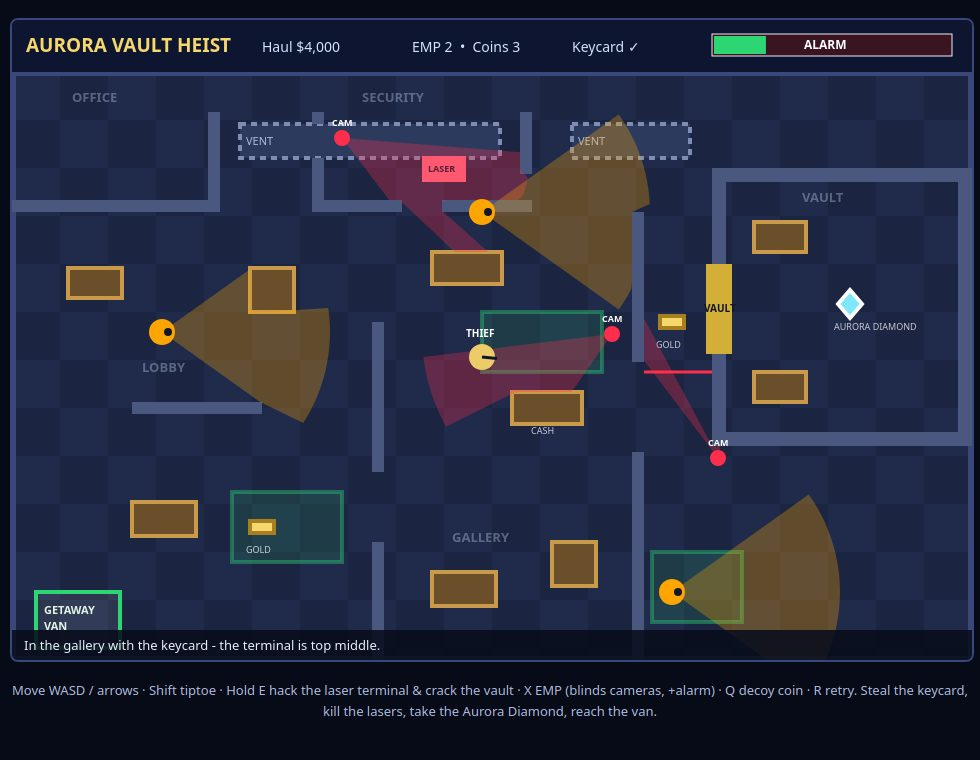
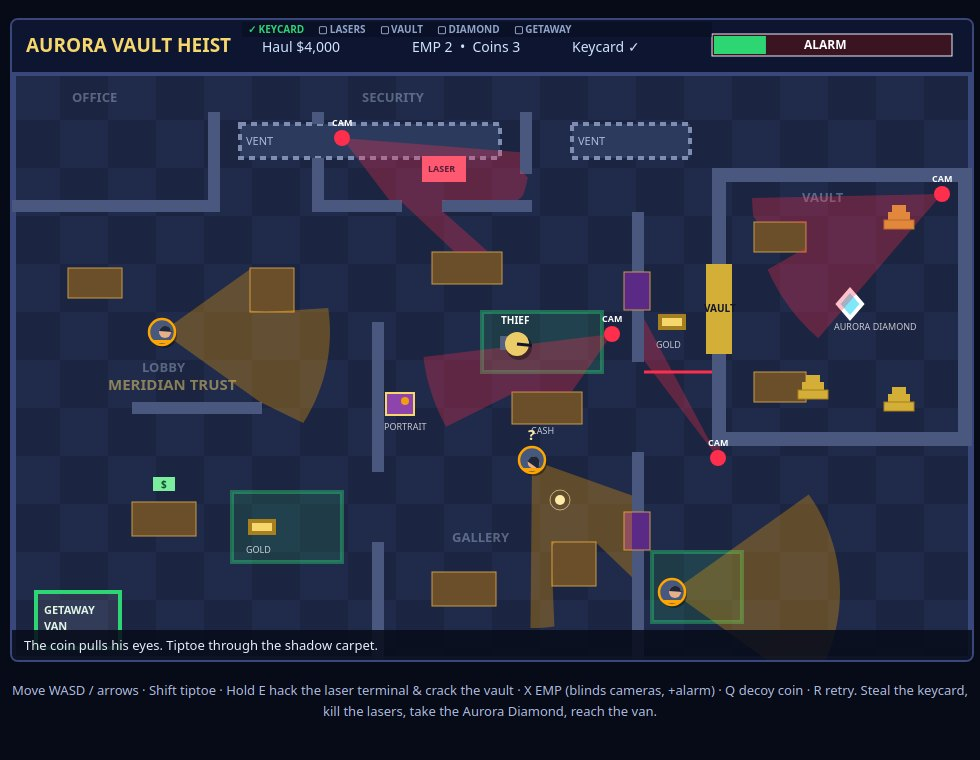
v2: lockdown watch, vault camera, portrait and register loot, objective checklist, richer rendering

diff --git a/game/src/render.js b/game/src/render.js
@@ -49,6 +49,35 @@ function drawHud(ctx, world) {
   ctx.fillStyle = '#ffffff';
   ctx.font = 'bold 12px system-ui, sans-serif';
   ctx.fillText('ALARM', 792, 29);
+  if (world.lockdown) {
+    ctx.fillStyle = '#ff4757';
+    ctx.font = 'bold 11px system-ui, sans-serif';
+    ctx.fillText('LOCKDOWN WATCH', 700, 45);
+  }
+  drawObjectives(ctx, world);
+}
+
+// The job in five steps, always on screen: a first-time viewer can
+// read the whole heist plan off a single screenshot.
+function drawObjectives(ctx, world) {
+  const steps = [
+    ['KEYCARD', world.hasKeycard],
+    ['LASERS', world.lasersOff],
+    ['VAULT', world.vaultOpen],
+    ['DIAMOND', world.hasDiamond],
+    ['GETAWAY', world.state === 'clear'],
+  ];
+  ctx.fillStyle = 'rgba(9,13,28,0.55)';
+  ctx.fillRect(230, 2, 470, 15);
+  ctx.font = 'bold 10px system-ui, sans-serif';
+  let x = 236;
+  steps.forEach(([label, done], i) => {
+    ctx.fillStyle = done ? '#2ed573' : '#8fa3c8';
+    const text = `${done ? '✓' : '▢'} ${label}`;
+    ctx.fillText(text, x, 13);
+    x += ctx.measureText(text).width + 14;
+    void i;
+  });
 }
 
 function drawFloor(ctx, world) {
@@ -129,6 +158,25 @@ function drawFixtures(ctx, world) {
   ctx.fillStyle = '#10162e';
   ctx.font = 'bold 10px system-ui, sans-serif';
   ctx.fillText(world.vaultOpen ? 'OPEN' : 'VAULT', VAULT_DOOR.x - 2, VAULT_DOOR.y + 48);
+  // Set dressing: framed art on the gallery wall, gold piles waiting
+  // inside the vault, and the bank's name over the lobby counter.
+  ctx.fillStyle = '#5b2a86';
+  ctx.fillRect(612, 200, 26, 38);
+  ctx.fillRect(612, 440, 26, 38);
+  ctx.strokeStyle = '#c99a4a';
+  ctx.strokeRect(612, 200, 26, 38);
+  ctx.strokeRect(612, 440, 26, 38);
+  for (const [gx, gy] of [[786, 318], [872, 148], [872, 330]]) {
+    ctx.fillStyle = '#d4af37';
+    ctx.fillRect(gx, gy, 30, 9);
+    ctx.fillRect(gx + 4, gy - 8, 22, 8);
+    ctx.fillRect(gx + 8, gy - 15, 14, 7);
+    ctx.strokeStyle = '#a87f1f';
+    ctx.strokeRect(gx, gy, 30, 9);
+  }
+  ctx.fillStyle = 'rgba(245,215,110,0.5)';
+  ctx.font = 'bold 15px system-ui, sans-serif';
+  ctx.fillText('MERIDIAN TRUST', 96, 318);
   // Laser beam across the vault corridor.
   if (!world.lasersOff) {
     ctx.strokeStyle = '#ff2e4d';
@@ -158,6 +206,15 @@ function drawLoot(ctx, world) {
     } else if (item.kind === 'keycard') {
       ctx.fillStyle = '#ffdd59';
       ctx.fillRect(item.x - 11, item.y - 7, 22, 14);
+    } else if (item.kind === 'painting') {
+      ctx.fillStyle = '#8e44ad';
+      ctx.fillRect(item.x - 14, item.y - 11, 28, 22);
+      ctx.strokeStyle = '#f5d76e';
+      ctx.lineWidth = 2;
+      ctx.strokeRect(item.x - 14, item.y - 11, 28, 22);
+      ctx.lineWidth = 1;
+      ctx.fillStyle = '#f39c12';
+      ctx.beginPath(); ctx.arc(item.x + 5, item.y - 3, 4, 0, Math.PI * 2); ctx.fill();
     } else if (item.kind === 'gold') {
       ctx.fillStyle = '#f5d76e';
       ctx.fillRect(item.x - 12, item.y - 6, 24, 12);
@@ -201,6 +258,10 @@ function drawActors(ctx, world) {
   for (const d of world.decoys) {
     ctx.fillStyle = '#ffeaa7';
     ctx.beginPath(); ctx.arc(d.x, d.y, 5, 0, Math.PI * 2); ctx.fill();
+    // Sound rings off the coin: you can see what the guards hear.
+    ctx.strokeStyle = 'rgba(255,234,167,0.6)';
+    const ring = 10 + (world.time * 14) % 16;
+    ctx.beginPath(); ctx.arc(d.x, d.y, ring, 0, Math.PI * 2); ctx.stroke();
   }
   for (const c of world.cameras) {
     ctx.fillStyle = c.disabledLeft > 0 ? '#57607e' : '#ff2e4d';
@@ -210,21 +271,47 @@ function drawActors(ctx, world) {
     ctx.fillText('CAM', c.x - 10, c.y - 12);
   }
   for (const g of world.guards) {
-    ctx.fillStyle = g.state === 'chase' ? '#ff4757' : '#ffa502';
+    // Navy uniform, amber vest stripe, cap brim toward his facing:
+    // a guard reads as a guard at a glance, not a token.
+    ctx.fillStyle = 'rgba(0,0,0,0.35)';
+    ctx.beginPath(); ctx.arc(g.x + 2, g.y + 3, 13, 0, Math.PI * 2); ctx.fill();
+    ctx.fillStyle = '#46587e';
     ctx.beginPath(); ctx.arc(g.x, g.y, 13, 0, Math.PI * 2); ctx.fill();
-    ctx.fillStyle = '#10162e';
+    ctx.strokeStyle = g.state === 'chase' ? '#ff4757' : '#ffa502';
+    ctx.lineWidth = 2.5;
+    ctx.stroke();
+    ctx.lineWidth = 1;
+    // Head with a navy cap, turned toward his facing.
+    const hx = g.x + Math.cos(g.facing) * 3;
+    const hy = g.y + Math.sin(g.facing) * 3;
+    ctx.fillStyle = '#e8b08a';
+    ctx.beginPath(); ctx.arc(hx, hy, 6, 0, Math.PI * 2); ctx.fill();
+    ctx.fillStyle = '#1d2739';
     ctx.beginPath();
-    ctx.arc(g.x + Math.cos(g.facing) * 6, g.y + Math.sin(g.facing) * 6, 4, 0, Math.PI * 2);
-    ctx.fill();
+    ctx.arc(hx, hy, 6, Math.PI * 1.05, Math.PI * 1.95);
+    ctx.lineTo(hx + Math.cos(g.facing) * 8, hy + Math.sin(g.facing) * 8);
+    ctx.closePath(); ctx.fill();
+    ctx.fillStyle = '#ffa502';
+    ctx.fillRect(g.x - 9, g.y + 8, 18, 3);
     if (g.state === 'chase' || g.state === 'search') {
       ctx.fillStyle = '#ff4757';
       ctx.font = 'bold 16px system-ui, sans-serif';
       ctx.fillText('!', g.x - 3, g.y - 20);
+    } else if (g.state === 'investigate' || g.state === 'look') {
+      ctx.fillStyle = '#ffeaa7';
+      ctx.font = 'bold 15px system-ui, sans-serif';
+      ctx.fillText('?', g.x - 4, g.y - 20);
     }
   }
   const p = world.player;
+  ctx.fillStyle = 'rgba(0,0,0,0.35)';
+  ctx.beginPath(); ctx.arc(p.x + 2, p.y + 3, 13, 0, Math.PI * 2); ctx.fill();
+  // The loot bag on his back: grey when empty, gold once the
+  // diamond is in it - the screenshot tells you how the job is going.
+  ctx.fillStyle = world.hasDiamond ? '#f5d76e' : '#57607e';
+  ctx.fillRect(p.x - Math.cos(p.facing) * 10 - 7, p.y - Math.sin(p.facing) * 10 - 7, 14, 14);
   ctx.fillStyle = p.inVent ? '#48dbfb' : '#eccc68';
-  ctx.beginPath(); ctx.arc(p.x, p.y, 13, 0, Math.PI * 2); ctx.fill();
+  ctx.beginPath(); ctx.arc(p.x, p.y, 12, 0, Math.PI * 2); ctx.fill();
   ctx.strokeStyle = '#10162e';
   ctx.lineWidth = 3;
   ctx.beginPath();
@@ -243,6 +330,14 @@ function drawActors(ctx, world) {
 }
 
 function drawOverlays(ctx, world) {
+  // Danger vignette: the frame itself closes in when the job is hot.
+  if (world.state === 'playing' && (world.seenNow || world.lockdown)) {
+    const pulse = 0.35 + 0.2 * Math.sin(world.time * 6);
+    ctx.strokeStyle = `rgba(255,46,77,${world.seenNow ? pulse : 0.3})`;
+    ctx.lineWidth = 10;
+    ctx.strokeRect(5, 5, VIEW_W - 10, VIEW_H - HUD_H - 10);
+    ctx.lineWidth = 1;
+  }
   ctx.fillStyle = 'rgba(9,13,28,0.88)';
   ctx.fillRect(0, VIEW_H - HUD_H - 30, VIEW_W, 30);
   ctx.fillStyle = '#e8ecf8';

diff --git a/game/src/guards.js b/game/src/guards.js
@@ -45,6 +45,9 @@ function moveToward(g, tx, ty, speed, dt, blockers) {
 
 export function updateGuard(g, dt, world) {
   const blockers = world.blockers;
+  // Lockdown: once the alarm passes the halfway mark the whole patrol
+  // shifts up a gear. The meter warned you the whole way up.
+  const boost = world.lockdown ? 1.22 : 1;
   if (world.seenByGuard === g && world.playerVisibleTo(g)) {
     g.state = 'chase';
     g.targetX = world.player.x;
@@ -52,7 +55,7 @@ export function updateGuard(g, dt, world) {
     g.searchLeft = 3.2;
   }
   if (g.state === 'chase') {
-    if (moveToward(g, g.targetX, g.targetY, GUARD_CHASE * g.speedScale, dt, blockers)) {
+    if (moveToward(g, g.targetX, g.targetY, GUARD_CHASE * g.speedScale * boost, dt, blockers)) {
       g.state = 'search';
     }
     if (!world.playerVisibleTo(g)) {
@@ -64,14 +67,14 @@ export function updateGuard(g, dt, world) {
   if (g.state === 'search') {
     g.searchLeft -= dt;
     g.facing += Math.sin(world.time * 1.7 + g.phase) * dt * 1.9;
-    if (moveToward(g, g.targetX, g.targetY, GUARD_SEARCH * g.speedScale, dt, blockers) && g.searchLeft <= 0) {
+    if (moveToward(g, g.targetX, g.targetY, GUARD_SEARCH * g.speedScale * boost, dt, blockers) && g.searchLeft <= 0) {
       g.state = 'patrol';
     }
     if (g.searchLeft < -2.5) g.state = 'patrol';
     return;
   }
   if (g.state === 'investigate') {
-    if (moveToward(g, g.targetX, g.targetY, GUARD_SEARCH * g.speedScale, dt, blockers)) {
+    if (moveToward(g, g.targetX, g.targetY, GUARD_SEARCH * g.speedScale * boost, dt, blockers)) {
       g.pauseLeft = 1.4;
       g.state = 'look';
     }
@@ -90,7 +93,7 @@ export function updateGuard(g, dt, world) {
     return;
   }
   const [tx, ty] = g.waypoints[g.wpIndex];
-  if (moveToward(g, tx, ty, GUARD_PATROL * g.speedScale, dt, blockers)) {
+  if (moveToward(g, tx, ty, GUARD_PATROL * g.speedScale * boost, dt, blockers)) {
     g.wpIndex = (g.wpIndex + 1) % g.waypoints.length;
     g.pauseLeft = 0.9;
   }

diff --git a/game/src/shots.js b/game/src/shots.js
@@ -14,13 +14,22 @@ export function shotWorld(name) {
     return world;
   }
   if (name === 'play') {
-    world.player.x = 470; world.player.y = 285; world.player.facing = 0.1;
+    // Mid-job in the gallery shadow carpet: a decoy coin rings on the
+    // tiles and the gallery guard turns to it ('?' overhead) while the
+    // thief slips past his cone with the keycard already lifted.
+    world.player.x = 505; world.player.y = 272; world.player.facing = 0.1;
+    world.player.tiptoe = true; world.player.inShadow = true;
     world.hasKeycard = true;
     world.loot.find((l) => l.id === 'keycard').taken = true;
     world.loot.find((l) => l.id === 'cash1').taken = true;
     world.haul = 4000;
     world.alarm = 22;
-    world.message = 'In the gallery with the keycard - the terminal is top middle.';
+    world.decoys.push({ x: 548, y: 428, left: 4 });
+    world.guards[1].state = 'investigate';
+    world.guards[1].x = 520; world.guards[1].y = 388;
+    world.guards[1].facing = Math.atan2(428 - 388, 548 - 520);
+    world.guards[1].targetX = 548; world.guards[1].targetY = 428;
+    world.message = 'The coin pulls his eyes. Tiptoe through the shadow carpet.';
     return world;
   }
   if (name === 'alarm') {
@@ -28,6 +37,7 @@ export function shotWorld(name) {
     world.hasKeycard = true; world.lasersOff = false;
     world.loot.find((l) => l.id === 'keycard').taken = true;
     world.alarm = 78;
+    world.lockdown = true;
     world.seenNow = true;
     world.guards[2].state = 'chase';
     world.guards[2].x = 700; world.guards[2].y = 360;
@@ -39,7 +49,7 @@ export function shotWorld(name) {
   world.hasKeycard = true; world.lasersOff = true; world.vaultOpen = true;
   world.hasDiamond = true;
   for (const l of world.loot) l.taken = true;
-  world.haul = 91000;
+  world.haul = 108000;
   world.alarm = 12;
   world.state = 'clear';
   world.endReason = 'Clean getaway. Ghost bonus $15,000.';

diff --git a/game/src/levels.js b/game/src/levels.js
@@ -69,6 +69,7 @@ export function buildActors(nightIndex) {
     { x: 330, y: 66, base: 0.5, sweep: 0.9, phase: 0 },
     { x: 600, y: 262, base: 2.6, sweep: 1.1, phase: 2.1 },
     { x: 706, y: 386, base: -1.8, sweep: 0.8, phase: 4.2 },
+    { x: 930, y: 122, base: 2.7, sweep: 0.6, phase: 1.3 },
   ];
   return { guards, cameras };
 }
@@ -82,6 +83,8 @@ export function buildLoot(nightIndex) {
     { id: 'gold2', kind: 'gold', x: 250, y: 455, value: 9000, label: 'GOLD' },
     { id: 'diamond', kind: 'diamond', x: 838, y: 232, value: 50000, label: 'AURORA DIAMOND' },
   ];
+  loot.push({ id: 'painting', kind: 'painting', x: 388, y: 332, value: 12000, label: 'PORTRAIT' });
+  loot.push({ id: 'register', kind: 'cash', x: 152, y: 412, value: 5000, label: 'REGISTER' });
   if (nightIndex >= 1) {
     loot.push({ id: 'cash3', kind: 'cash', x: 690, y: 500, value: 6000, label: 'CASH' });
   }

diff --git a/game/src/world.js b/game/src/world.js
@@ -45,6 +45,7 @@ export function createWorld(nightIndex) {
     workKind: null,
     workLeft: 0,
     haul: 0,
+    lockdown: false,
     message: 'Lift the KEYCARD from the office, then work the LASER TERMINAL.',
     endReason: '',
     laserTrippedAt: -99,
@@ -181,6 +182,12 @@ export function updateWorld(world, input, dt) {
     world.alarm = Math.min(ALARM_MAX, world.alarm + rate * dt);
   } else {
     world.alarm = Math.max(0, world.alarm - ALARM_DRAIN * dt);
+  }
+  // Lockdown watch: past halfway on the meter, patrols speed up.
+  const wasLockdown = world.lockdown;
+  world.lockdown = world.alarm >= ALARM_MAX * 0.55;
+  if (world.lockdown && !wasLockdown) {
+    world.message = 'LOCKDOWN WATCH - the patrols pick up the pace!';
   }
   for (const g of world.guards) updateGuard(g, dt, world);
 
